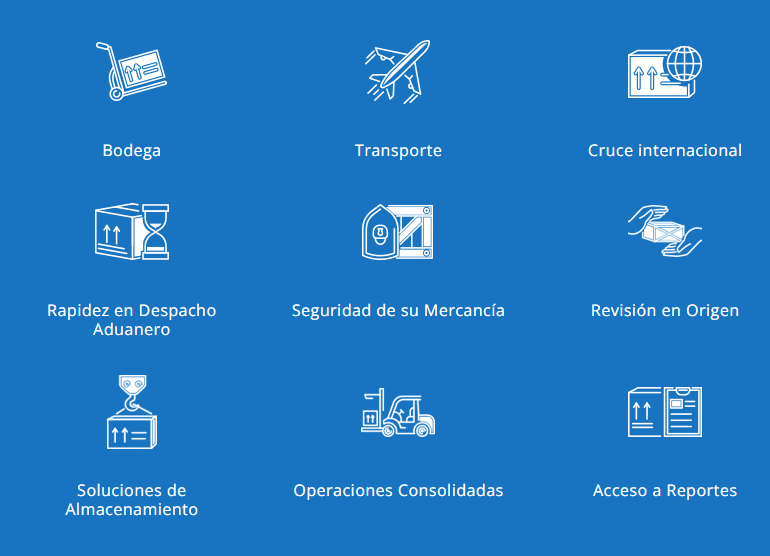
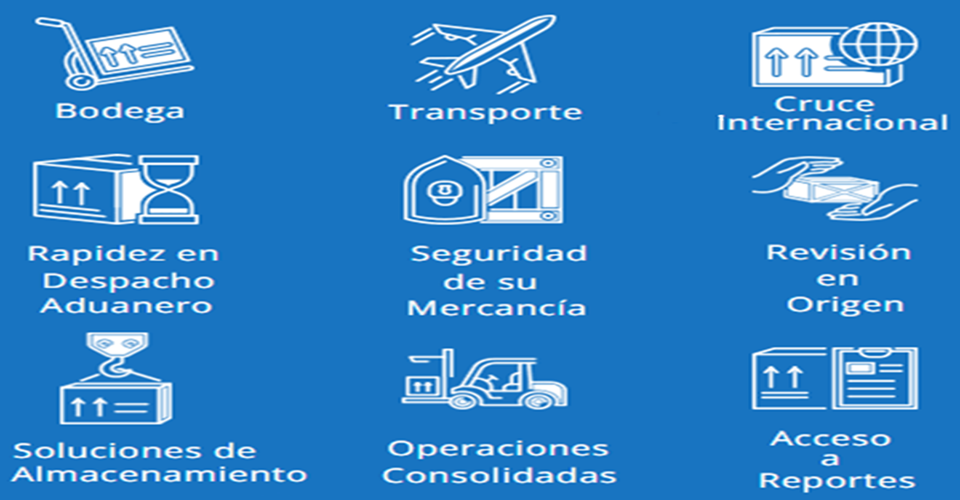
image stretching changes

diff --git a/Ventajas.html b/Ventajas.html
@@ -651,14 +651,7 @@ Siguiendo esta filosofía de vida MSC ha superado grandes retos y llegado a mant
     </div>
 </div>
     
-
-<style>
-    .imageandcontentwidget__inner__imagecolumn__image {
-        border-radius: 0%;
-        padding-bottom: 85%;
-        
-    }
-    .imageandcontentwidget__inner__imagecolumn__image img {
+<!--.imageandcontentwidget__inner__imagecolumn__image img {
         transform-origin: top left;
         transform: scale(1.0, 1.2); /* Default scale for smallest screens */
     }
@@ -666,53 +659,62 @@ Siguiendo esta filosofía de vida MSC ha superado grandes retos y llegado a mant
     /* Small screens, typically phones */
     @media (min-width: 288px) and (max-width: 479px) {
         .imageandcontentwidget__inner__imagecolumn__image img {
-            transform: scale(0.95,1.2);
+            transform: scale(1.0,0.95);
         }
     }
 
     /* Medium-small screens, larger phones to small tablets */
     @media (min-width: 480px) and (max-width: 767px) {
         .imageandcontentwidget__inner__imagecolumn__image img {
-            transform: scale(0.95, 1.2);
+            transform: scale(1.0,0.95);
         }
     }
 
     /* Tablets */
     @media (min-width: 768px) and (max-width: 1023px) {
         .imageandcontentwidget__inner__imagecolumn__image img {
-            transform: scale(0.95, 1.2);
+            transform: scale(1.0,0.95);
         }
     }
 
     /* Small laptops / large tablets */
     @media (min-width: 1024px) and (max-width: 1089px) {
         .imageandcontentwidget__inner__imagecolumn__image img {
-            transform: scale(0.95, 1.2);
+            transform: scale(1.0,0.95);
         }
     }
 
     /* Typical desktop screens */
     @media (min-width: 1090px) and (max-width: 1439px) {
         .imageandcontentwidget__inner__imagecolumn__image img {
-            transform: scale(.95,1.2);
+            transform: scale(1.0,0.95);
         }
     }
 
     /* Larger screens */
     @media (min-width: 1440px) and (max-width: 1899px) {
         .imageandcontentwidget__inner__imagecolumn__image img {
-            transform: scale(.95,1.2);
+            transform: scale(1.0,0.95);
         }
     }
 
     /* Very large screens */
     @media (min-width: 1900px) {
         .imageandcontentwidget__inner__imagecolumn__image img {
-            transform: scale(.95,1.2);
+            transform: scale(1.0,0.95);
         }
+    }-->
+<style>
+    .imageandcontentwidget__inner__imagecolumn__image {
+        border-radius: 0%;
+        padding-bottom: 85%;
+        
     }
-
-
+    
+    .imageandcontentwidget__inner__imagecolumn__image img {
+        transform-origin: top;
+        transform: scale(0.83);
+    }
     .imageandcontentwidget__inner__content {
         
         padding-top:23px;
@@ -752,8 +754,9 @@ Siguiendo esta filosofía de vida MSC ha superado grandes retos y llegado a mant
 			<div class="imageandcontentwidget__inner__imagecolumn">
 				<div class="imageandcontentwidget__inner__imagecolumn__image" style="border-radius: 0%;background-color:rgb(24,116,193)">
                     <picture>
-                        <img alt="ventajas" src="./Images/ventajathing1.png">
+                        <img alt="ventajas" src="./Images/upscaled_ventajathing.png">
                     </picture>
+                    <!-- <img alt="ventajas" src="./Images/ventajathing1.png"> -->
                 </div>
 			</div>
 			<div class="imageandcontentwidget__inner__content">
